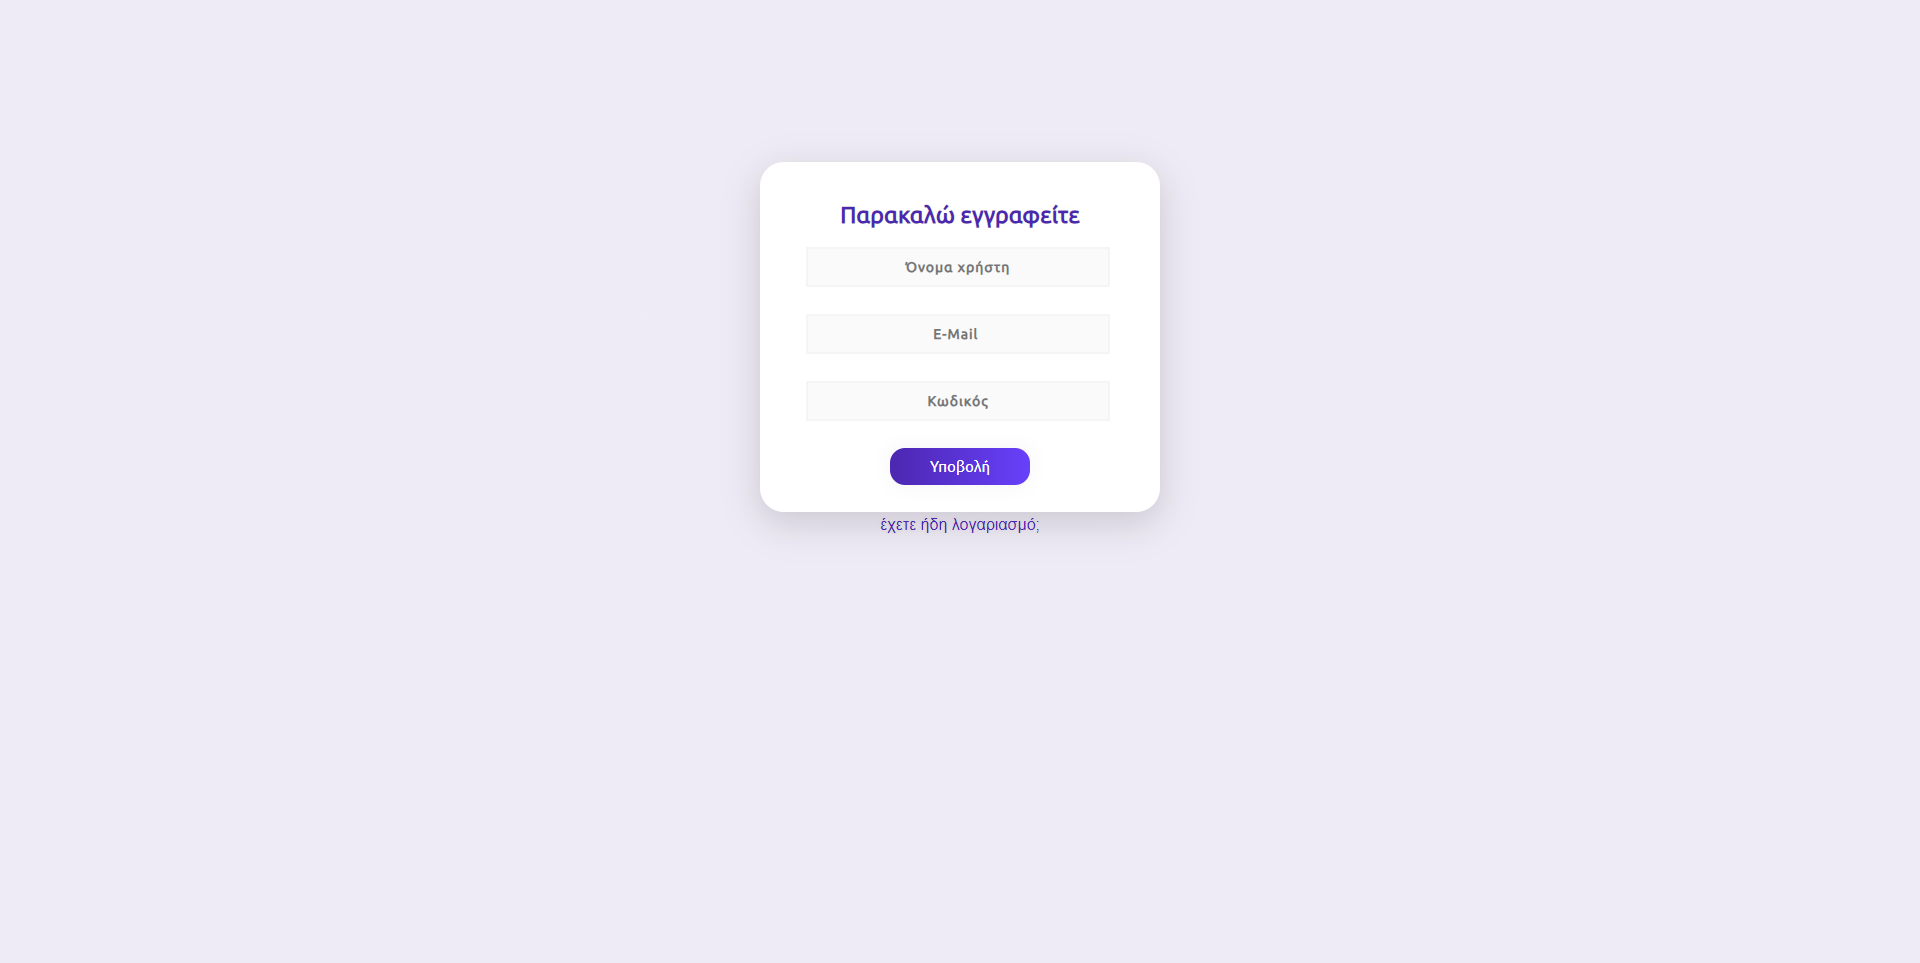
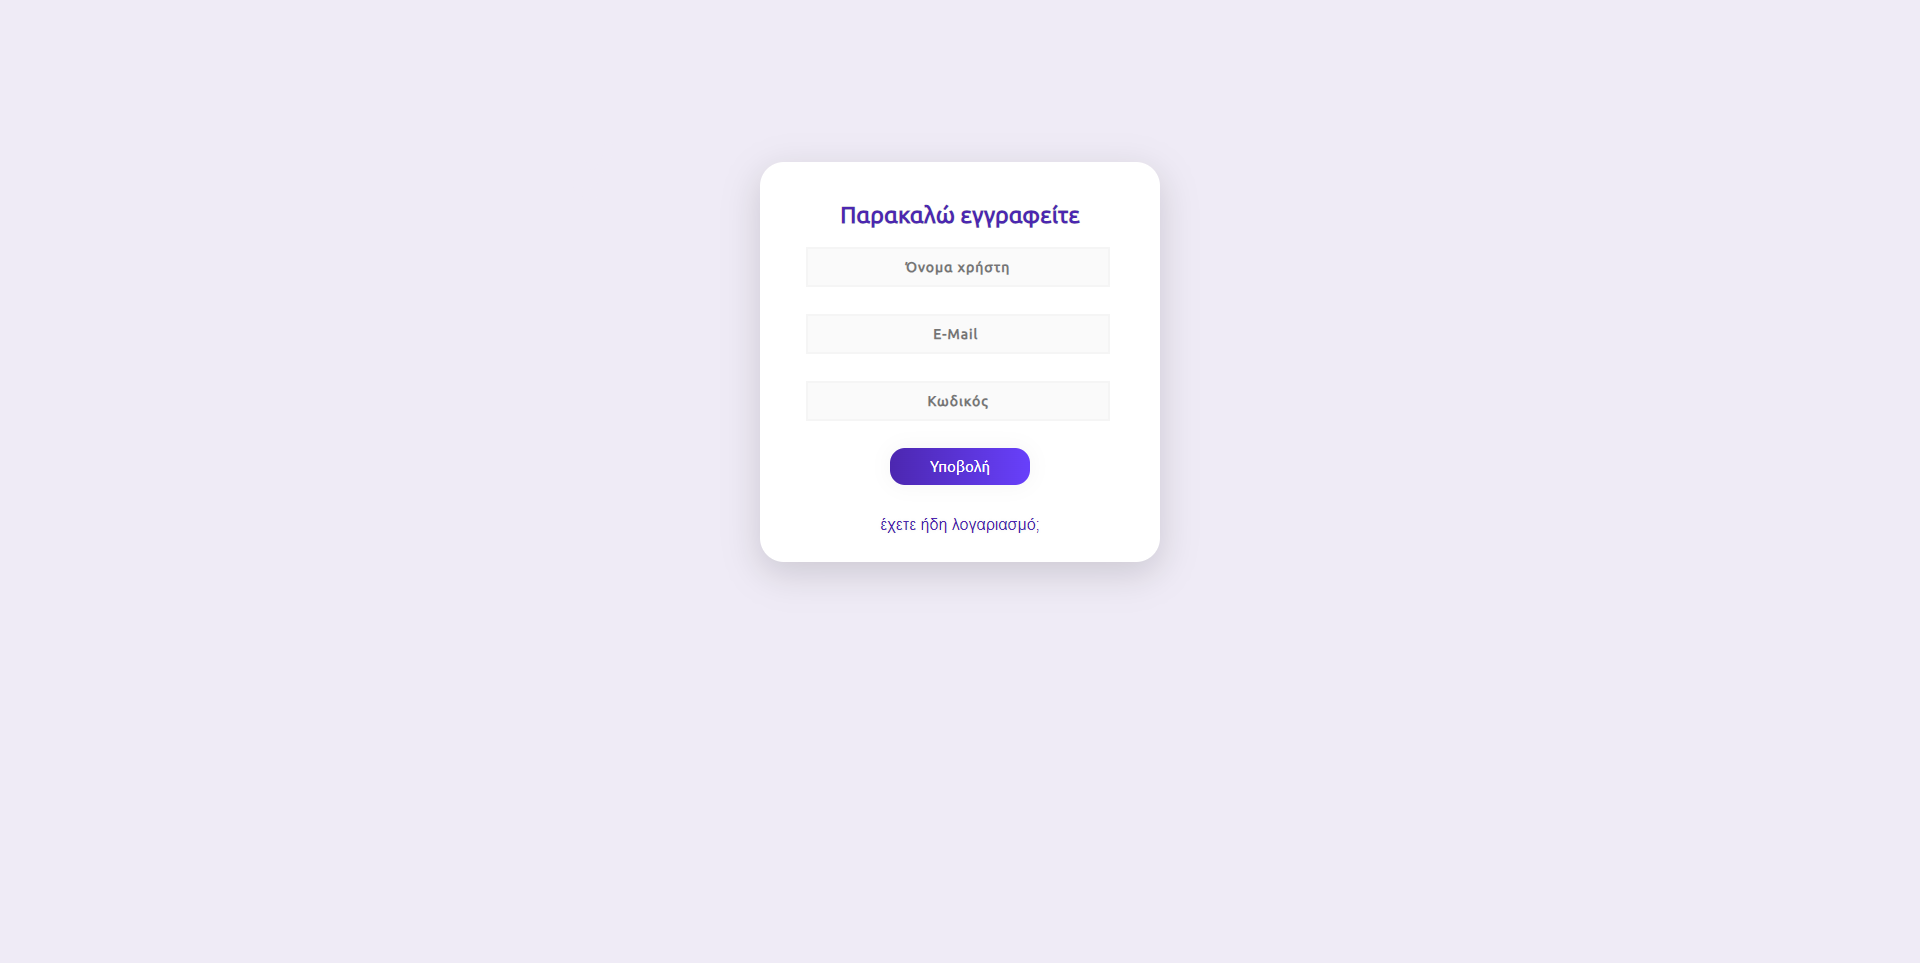
fixed box height at register page

Changed region(s): [[0.375, 0.5296, 0.625, 0.5919]]

diff --git a/public/style.css b/public/style.css
@@ -89,7 +89,7 @@ body {
 .main {
     background-color: #FFFFFF;
     width: 400px;
-    height: 350px;
+    height: 400px;
     margin: 7em auto;
     border-radius: 1.5em;
     box-shadow: 0px 11px 35px 2px rgba(0, 0, 0, 0.14);
